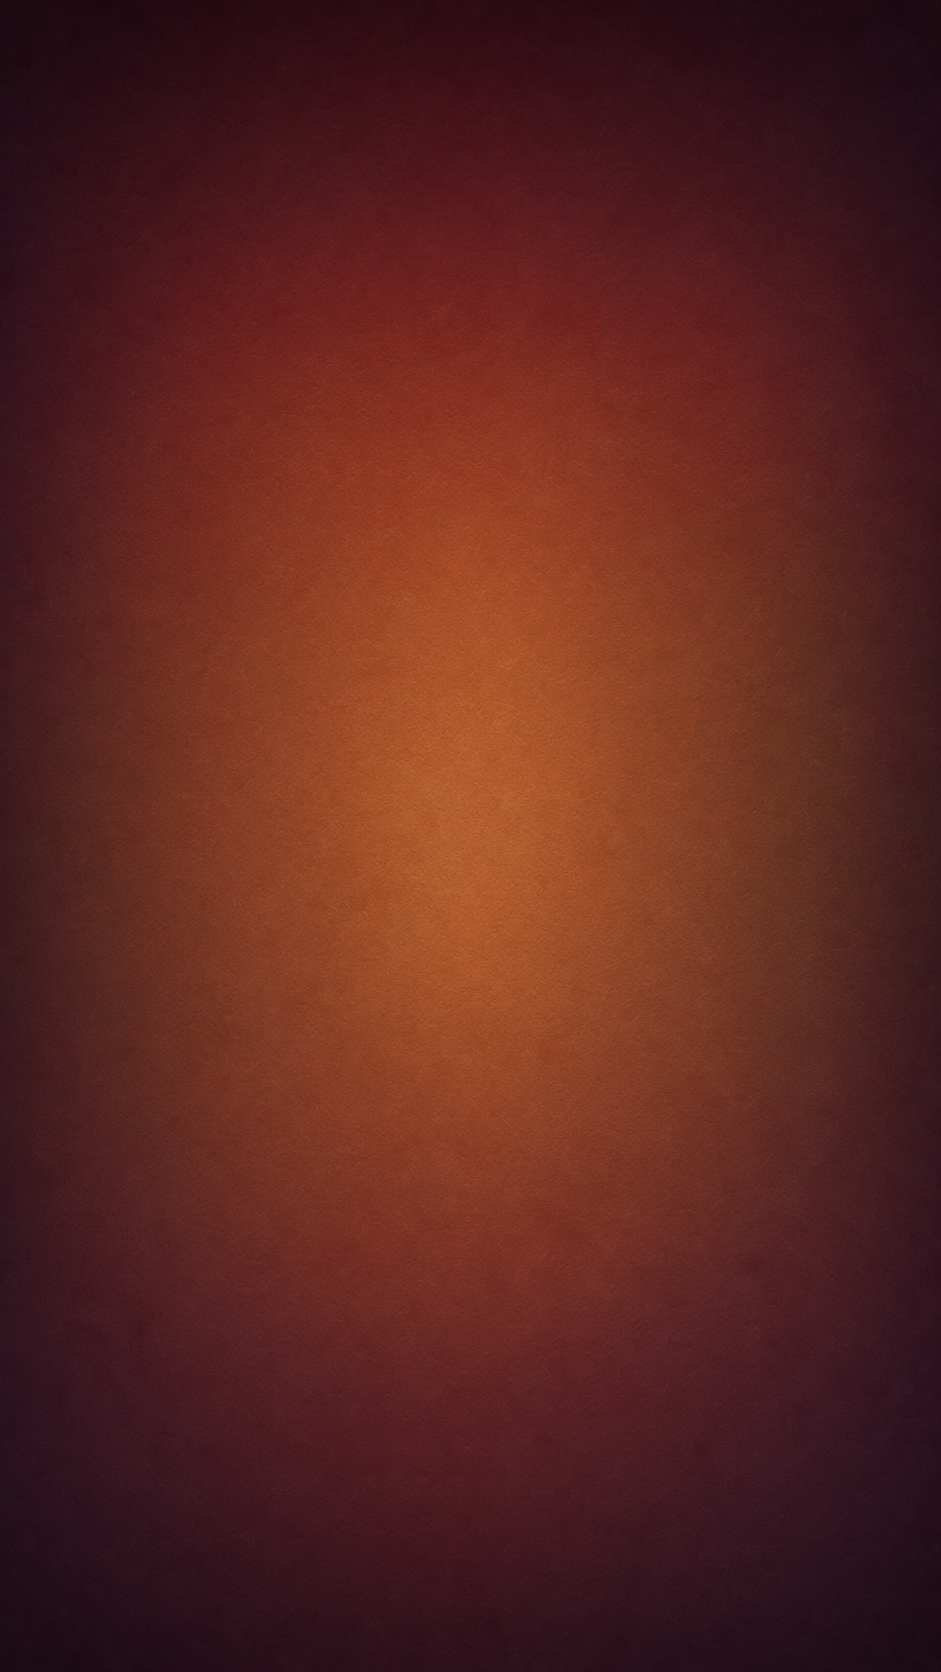
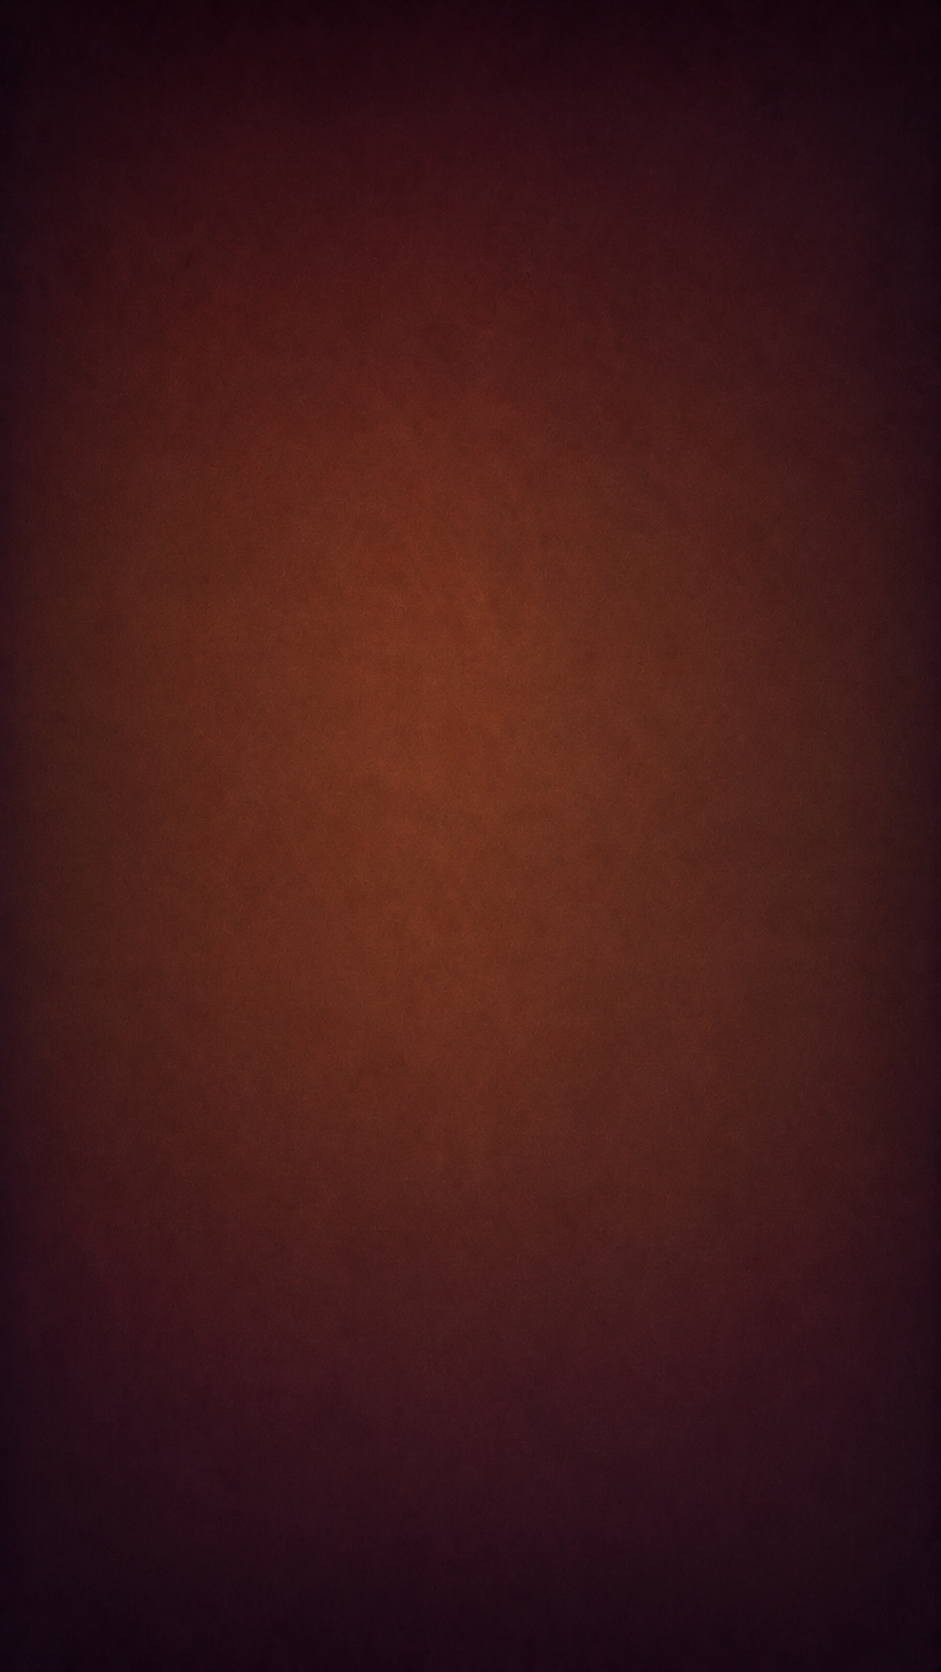
complete arrows

diff --git a/src/games/futoshiki/components/Arrow.tsx b/src/games/futoshiki/components/Arrow.tsx
@@ -1,4 +1,11 @@
-import { FaAngleDown, FaAngleLeft, FaAngleRight, FaAngleUp } from 'react-icons/fa6';
+import downArrowImage from '../assets/down_arrow.png';
+import downArrowErrorImage from '../assets/down_arrow_error.png';
+import leftArrowImage from '../assets/left_arrow.png';
+import leftArrowErrorImage from '../assets/left_arrow_error.png';
+import rightArrowImage from '../assets/right_arrow.png';
+import rightArrowErrorImage from '../assets/right_arrow_error.png';
+import upArrowImage from '../assets/up_arrow.png';
+import upArrowErrorImage from '../assets/up_arrow_error.png';
 import type { ArrowDirection } from '../logic';
 
 type ArrowProps = {
@@ -7,26 +14,34 @@ type ArrowProps = {
   isInvalid?: boolean;
 };
 
-const arrowIcons = {
-  down: FaAngleDown,
-  left: FaAngleLeft,
-  right: FaAngleRight,
-  up: FaAngleUp,
+const arrowImages: Record<ArrowDirection, string> = {
+  down: downArrowImage,
+  left: leftArrowImage,
+  right: rightArrowImage,
+  up: upArrowImage,
+};
+
+const arrowErrorImages: Record<ArrowDirection, string> = {
+  down: downArrowErrorImage,
+  left: leftArrowErrorImage,
+  right: rightArrowErrorImage,
+  up: upArrowErrorImage,
 };
 
 export function Arrow({ direction, orientation, isInvalid }: ArrowProps) {
-  const Icon = direction ? arrowIcons[direction] : null;
-
   return (
     <div
       className={`futoshiki-board-mock__arrow is-${orientation}${direction ? '' : ' is-empty'}${
         isInvalid ? ' is-invalid' : ''
       }`}
     >
-      {Icon && (
-        <span className="futoshiki-board-mock__arrow-glyph">
-          <Icon />
-        </span>
+      {direction && (
+        <img
+          className={`futoshiki-board-mock__arrow-glyph is-${direction}`}
+          src={isInvalid ? arrowErrorImages[direction] : arrowImages[direction]}
+          alt=""
+          aria-hidden="true"
+        />
       )}
     </div>
   );

diff --git a/src/games/futoshiki/futoshiki.css b/src/games/futoshiki/futoshiki.css
@@ -267,32 +267,30 @@
 }
 
 .futoshiki-board-mock__arrow {
-  color: rgba(147, 151, 154, 0.72);
-}
-
-.futoshiki-board-mock__arrow.is-empty {
-  color: transparent;
-}
-
-.futoshiki-board-mock__arrow.is-invalid {
-  color: #ff3042;
+  position: relative;
+  z-index: 3;
 }
 
 .futoshiki-board-mock__arrow-glyph {
-  display: grid;
-  width: 22px;
-  height: 22px;
-  place-items: center;
-}
+  --futoshiki-arrow-x: 0px;
+  --futoshiki-arrow-y: 0px;
 
-.futoshiki-board-mock__arrow svg {
   display: block;
-  width: 22px;
-  height: 22px;
+  width: auto;
+  height: auto;
+  max-width: none;
+  object-fit: contain;
+  pointer-events: none;
+  transform: translate(var(--futoshiki-arrow-x), var(--futoshiki-arrow-y)) scale(0.50);
 }
 
-.futoshiki-board-mock__arrow.is-vertical svg {
-  transform: scale(1.04);
+.futoshiki-board-mock__arrow-glyph.is-right,
+.futoshiki-board-mock__arrow-glyph.is-left {
+  --futoshiki-arrow-x: -2px;
+}
+
+.futoshiki-board-mock__arrow-glyph.is-down {
+  --futoshiki-arrow-y: -2px;
 }
 
 .futoshiki-board-actions {